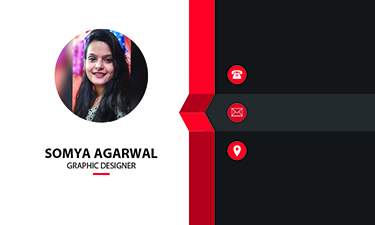
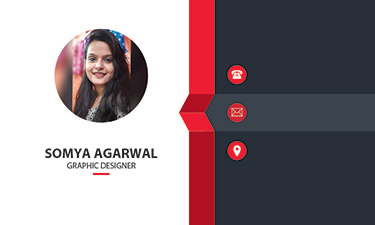
contact information updated img

diff --git a/CSS/contact.css b/CSS/contact.css
@@ -35,22 +35,22 @@
         text-align: center;
         color: rgb(255, 255, 255);
         font-size: 8px;
-        margin-left: 44%;
-        margin-top: -52%;
+        margin-left: -110%;
+        margin-top: 65%;
     }
     .text-wrapper h2{
         text-align: center;
         color: white;
         font-size: 8px;
-        margin-left: 57%;
-        margin-top: 8%;
+        margin-left: -65%;
+        margin-top: 25%;
     }
     .text-wrapper h3{
         text-align: center;
         color: white;
         font-size: 8px;
-        margin-left: 42%;
-        margin-top: 7.7%;
+        margin-left: -40%;
+        margin-top: 26%;
     }
     }
     .Animated-box div{
